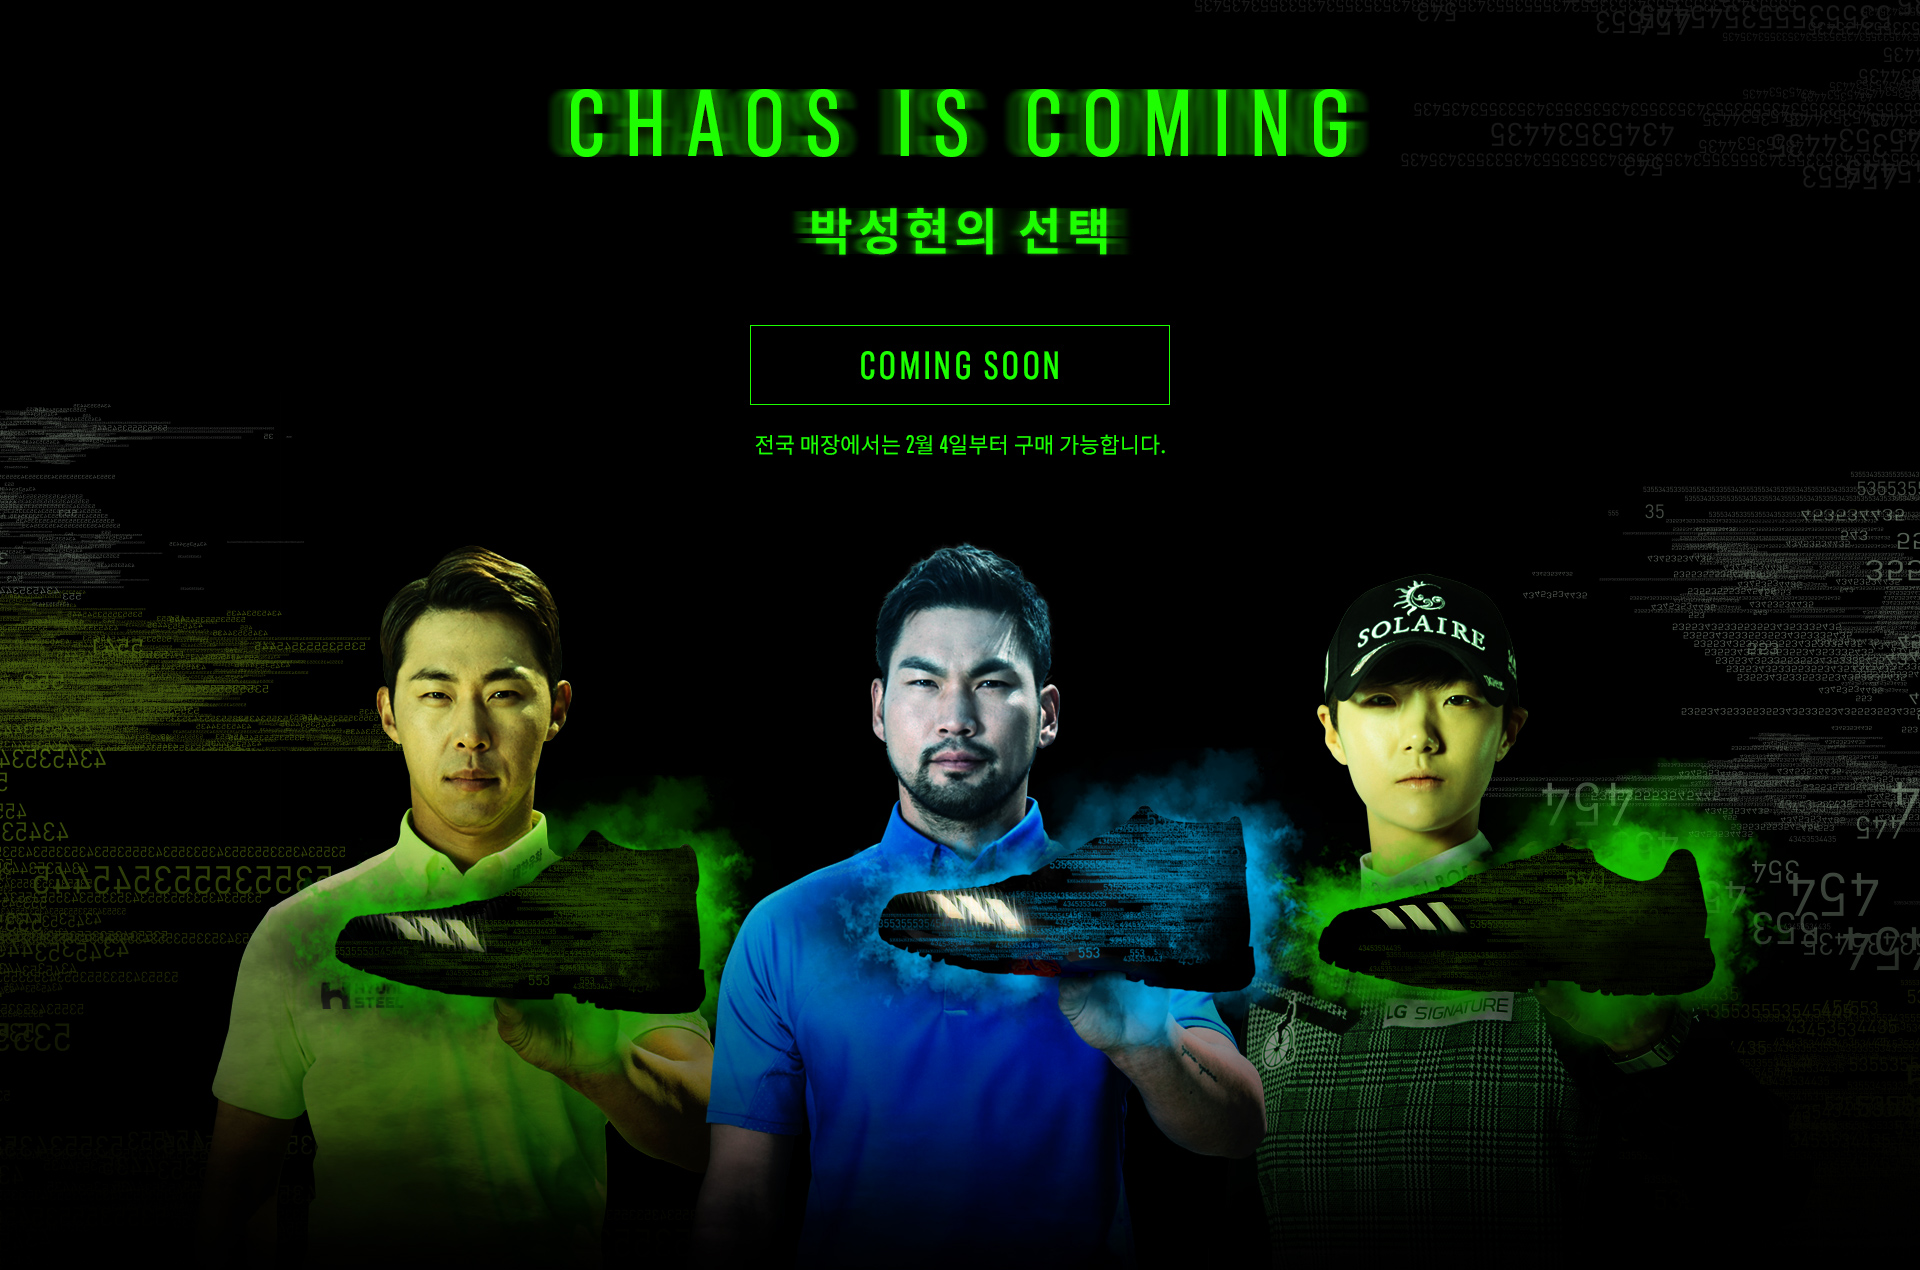
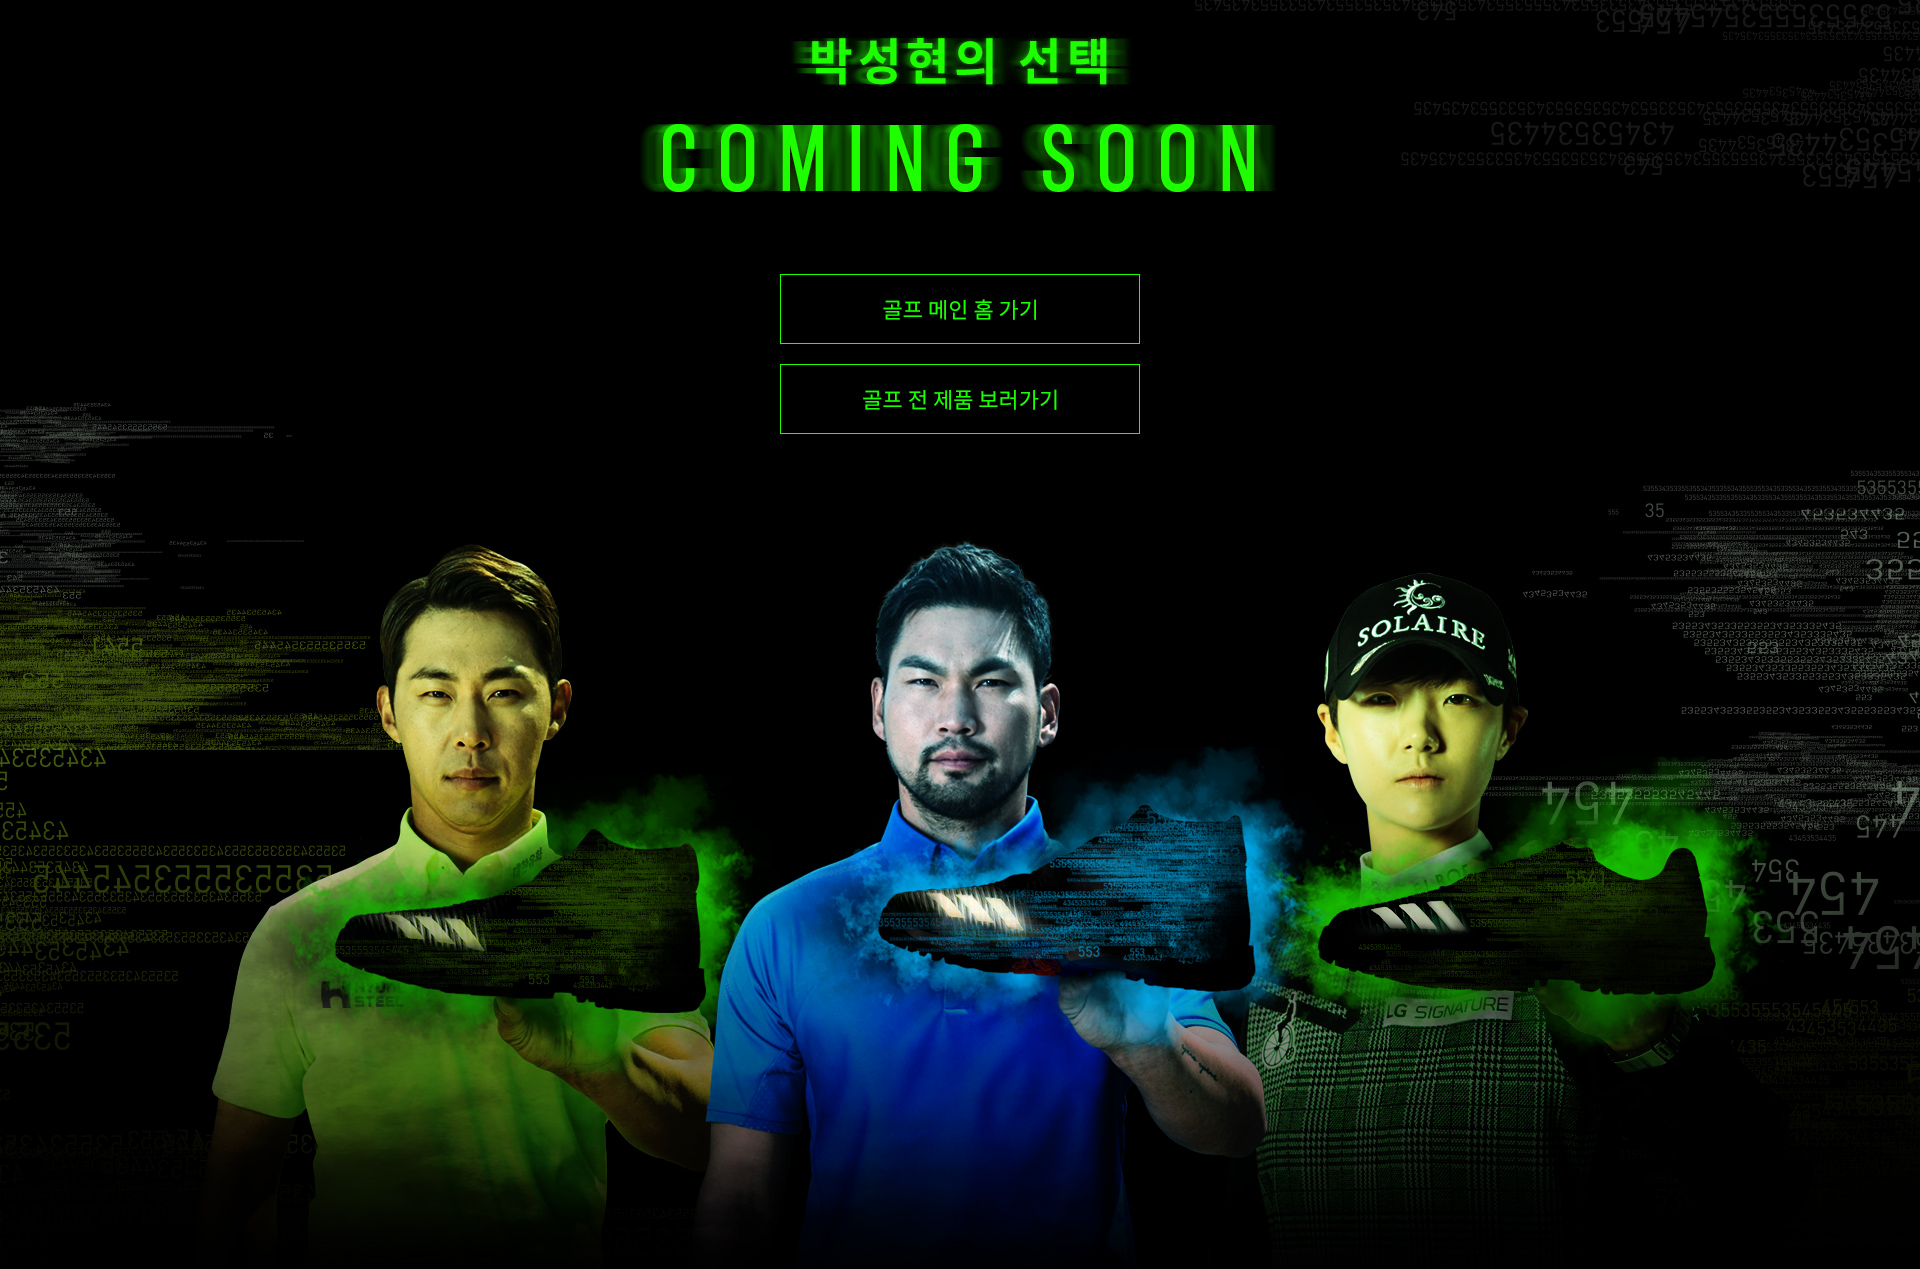
golf chaos TS

diff --git a/front/html/adidas/2020/event/golf/chaos/TS/build/index.html b/front/html/adidas/2020/event/golf/chaos/TS/build/index.html
@@ -1005,7 +1005,7 @@
 		<!-- header HTML -->
 
 		<div id="container_r" class="campaign-content">
-<style type="text/css">.pseudo-element{content:'';display:block}#wrap{min-width:1190px;overflow:hidden}#chaos{position:relative}#chaos .main{position:relative;height:1025px;background-color:#000}#chaos .main>.bg{position:absolute;top:0;left:50%;margin-left:-960px}#chaos .video{position:relative;height:675px;background-color:#000}#chaos .video video{position:absolute;height:675px;top:0;left:50%;margin-left:-600px}#chaos .count{position:relative;height:1742px;background-color:#000}#chaos .count .counter .num{width:100px;height:120px;text-align:center;color:#1dff00;font:120px 'adihausDIN-Cond-bold';z-index:99}#chaos .count .counter .num1{position:absolute;top:1110px;left:50%;margin-left:-500px}#chaos .count .counter .num2{position:absolute;top:1110px;left:50%;margin-left:-200px}#chaos .count .counter .num3{position:absolute;top:1110px;left:50%;margin-left:100px}#chaos .count .counter .num4{position:absolute;top:1110px;left:50%;margin-left:400px}#chaos .count>.bg{position:absolute;top:0;left:50%;margin-left:-960px}#chaos .bottom{position:relative;height:1270px;background-color:#000}#chaos .bottom>.bg{position:absolute;top:0;left:50%;margin-left:-960px}
+<style type="text/css">.pseudo-element{content:'';display:block}#wrap{min-width:1190px;overflow:hidden}#chaos{position:relative}#chaos .main{position:relative;height:1025px;background-color:#000}#chaos .main>.bg{position:absolute;top:0;left:50%;margin-left:-960px}#chaos .video{position:relative;height:675px;background-color:#000}#chaos .video #video{position:absolute;height:675px;top:0;left:50%;margin-left:-600px}#chaos .count{position:relative;height:1742px;background-color:#000}#chaos .count .counter .num{width:100px;height:120px;text-align:center;color:#1dff00;font:120px 'adihausDIN-Cond-bold';z-index:99}#chaos .count .counter .num1{position:absolute;top:1110px;left:50%;margin-left:-500px}#chaos .count .counter .num2{position:absolute;top:1110px;left:50%;margin-left:-200px}#chaos .count .counter .num3{position:absolute;top:1110px;left:50%;margin-left:100px}#chaos .count .counter .num4{position:absolute;top:1110px;left:50%;margin-left:400px}#chaos .count>.bg{position:absolute;top:0;left:50%;margin-left:-960px}#chaos .bottom{position:relative;height:1270px;background-color:#000}#chaos .bottom>.bg{position:absolute;top:0;left:50%;margin-left:-960px}
 </style>
 
 			<div id="chaos">
@@ -1016,8 +1016,11 @@
 					</div>
 				</div>
 				<div class="video">
-					<video src="/images/adidas/2020/event/golf/chaos/TEASER_10_LORES_PP.mp4" muted="" playsinline="" loop="" autoplay=""></video>
-				</div>
+					<video id="video" poster="/images/adidas/2020/event/golf/chaos/video_bg.jpg" loop muted autoplay playsinline>
+						<source src="http://imagem.adidas.co.kr/upload/design_temp/video/2020/a/golf/chaos/TEASER_10_LORES_PP.mp4"
+							type="video/mp4">
+					</video>
+				</div>				
 				<div class="count">
 			<div class="counter">
 			    <span id="time-day" class="num num1"></span>
@@ -1031,8 +1034,14 @@
 				</div>
 				<div class="bottom">
 					<div class="bg">
-						<img src="/images/adidas/2020/event/golf/chaos/bottom_img.jpg" alt="">
+						<img src="/images/adidas/2020/event/golf/chaos/bottom_img.jpg" alt="" usemap="#chaos_map">
 					</div>
+					<map name="chaos_map" id="chaos_map">
+						<area shape="rect" coords="780,274,1140,344"
+							href="https://shop.adidas.co.kr/PF020107.action?GUBUN=GOLF" alt="골프 메인 홈 가기" style="outline: none;" />
+						<area shape="rect" coords="780,364,1140,434"
+							href="https://shop.adidas.co.kr/PF020204.action?S_BRAND_CD=11&S_CTGR_CD=01004001014&NFN_ST=Y" alt="골프 전 제품 보러가기" style="outline: none;" />
+					</map>
 				</div>
 				<!-- //chaos -->
 

diff --git a/front/html/adidas/2020/event/golf/chaos/TS/index.html b/front/html/adidas/2020/event/golf/chaos/TS/index.html
@@ -1014,8 +1014,11 @@
 					</div>
 				</div>
 				<div class="video">
-					<video src="/images/adidas/2020/event/golf/chaos/TEASER_10_LORES_PP.mp4" muted="" playsinline="" loop="" autoplay=""></video>
-				</div>
+					<video id="video" poster="/images/adidas/2020/event/golf/chaos/video_bg.jpg" loop muted autoplay playsinline>
+						<source src="http://imagem.adidas.co.kr/upload/design_temp/video/2020/a/golf/chaos/TEASER_10_LORES_PP.mp4"
+							type="video/mp4">
+					</video>
+				</div>				
 				<div class="count">
 			<div class="counter">
 			    <span id="time-day" class="num num1"></span>
@@ -1029,8 +1032,14 @@
 				</div>
 				<div class="bottom">
 					<div class="bg">
-						<img src="/images/adidas/2020/event/golf/chaos/bottom_img.jpg" alt="">
+						<img src="/images/adidas/2020/event/golf/chaos/bottom_img.jpg" alt="" usemap="#chaos_map">
 					</div>
+					<map name="chaos_map" id="chaos_map">
+						<area shape="rect" coords="780,274,1140,344"
+							href="https://shop.adidas.co.kr/PF020107.action?GUBUN=GOLF" alt="골프 메인 홈 가기" style="outline: none;" />
+						<area shape="rect" coords="780,364,1140,434"
+							href="https://shop.adidas.co.kr/PF020204.action?S_BRAND_CD=11&S_CTGR_CD=01004001014&NFN_ST=Y" alt="골프 전 제품 보러가기" style="outline: none;" />
+					</map>
 				</div>
 				<!-- //chaos -->
 

diff --git a/front/html/adidas/2020/event/golf/chaos/TS/index.scss b/front/html/adidas/2020/event/golf/chaos/TS/index.scss
@@ -24,7 +24,7 @@
 		position: relative;
 		height: 675px;
 		background-color: #000;
-		video{
+		#video{
 			position: absolute;
 			height: 675px;
 			top: 0;
